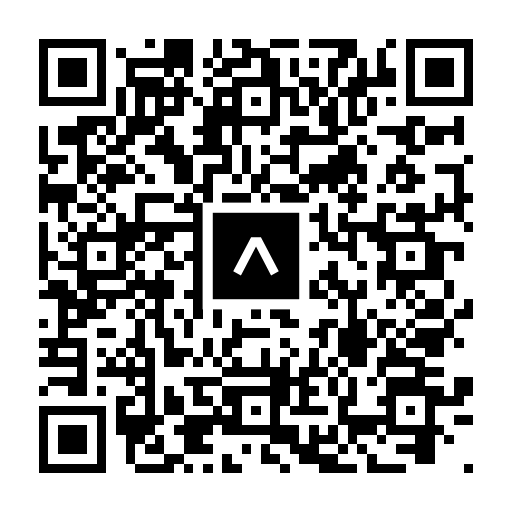
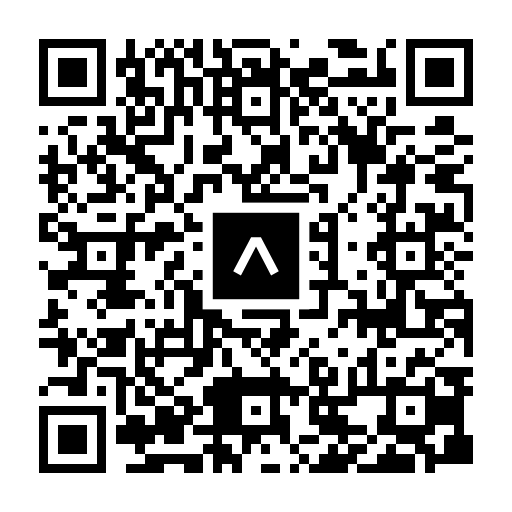
Updated QR codes

Changed region(s): [[0.0625, 0.0625, 0.9375, 0.9375]]

diff --git a/WebApp/src/Components/aws-exports.js b/WebApp/src/Components/aws-exports.js
@@ -2,48 +2,59 @@
 // WARNING: DO NOT EDIT. This file is automatically generated by AWS Amplify. It will be overwritten.
 
 const awsmobile = {
-    aws_project_region: process.env.REACT_APP_aws_project_region,
-    aws_mobile_analytics_app_id: process.env.REACT_APP_aws_mobile_analytics_app_id,
-    aws_mobile_analytics_app_region: process.env.REACT_APP_aws_mobile_analytics_app_region,
-    Analytics: {
-        AWSPinpoint: {
-            appId: process.env.REACT_APP_aws_mobile_analytics_app_id,
-            region: process.env.REACT_APP_aws_mobile_analytics_app_region,
-        },
+    "aws_project_region": "us-east-1",
+    "aws_mobile_analytics_app_id": "1b7cba24978247458ed95792275f66a5",
+    "aws_mobile_analytics_app_region": "us-east-1",
+    "Analytics": {
+        "AWSPinpoint": {
+            "appId": "1b7cba24978247458ed95792275f66a5",
+            "region": "us-east-1"
+        }
     },
-    aws_cloud_logic_custom: [
+    "aws_cloud_logic_custom": [
         {
-            name: "AdminQueries",
-            endpoint: process.env.REACT_APP_AWS_CLOUD_LOGIC_CUSTOM_0_endpoint,
-            region: process.env.REACT_APP_AWS_CLOUD_LOGIC_CUSTOM_0_region,
-        },
+            "name": "AdminQueries",
+            "endpoint": "https://l2dapg3i88.execute-api.us-east-1.amazonaws.com/dev",
+            "region": "us-east-1"
+        }
     ],
-    aws_appsync_graphqlEndpoint: process.env.REACT_APP_aws_appsync_graphqlEndpoint,
-    aws_appsync_region: process.env.REACT_APP_aws_appsync_region,
-    aws_appsync_authenticationType: process.env.REACT_APP_aws_appsync_authenticationType,
-    aws_appsync_apiKey: process.env.REACT_APP_aws_appsync_apiKey,
-    aws_cognito_identity_pool_id: process.env.REACT_APP_aws_cognito_identity_pool_id,
-    aws_cognito_region: process.env.REACT_APP_aws_cognito_region,
-    aws_user_pools_id: process.env.REACT_APP_aws_user_pools_id,
-    aws_user_pools_web_client_id: process.env.REACT_APP_aws_user_pools_web_client_id,
-    oauth: {},
-    aws_cognito_username_attributes: [process.env.REACT_APP_aws_cognito_verification_mechanisms_0],
-    aws_cognito_social_providers: [],
-    aws_cognito_signup_attributes: [process.env.REACT_APP_aws_cognito_verification_mechanisms_0, process.env.REACT_APP_FAMILY_NAME, process.env.REACT_APP_GIVEN_NAME],
-    aws_cognito_mfa_configuration: process.env.REACT_APP_aws_cognito_mfa_configuration,
-    aws_cognito_mfa_types: [process.env.REACT_APP_aws_cognito_mfa_types_0],
-    aws_cognito_password_protection_settings: {
-        passwordPolicyMinLength: process.env.REACT_APP_aws_cognito_password_protection_settings_passwordPolicyMinLength,
-        passwordPolicyCharacters: [
-            process.env.REACT_APP_aws_cognito_password_protection_settings_passwordPolicyCharacters_0,
-            process.env.REACT_APP_aws_cognito_password_protection_settings_passwordPolicyCharacters_1,
-            process.env.REACT_APP_aws_cognito_password_protection_settings_passwordPolicyCharacters_2,
-            process.env.REACT_APP_aws_cognito_password_protection_settings_passwordPolicyCharacters_3,
-        ],
+    "aws_appsync_graphqlEndpoint": "https://67twqdqlarflpjyhslhunp4mpm.appsync-api.us-east-1.amazonaws.com/graphql",
+    "aws_appsync_region": "us-east-1",
+    "aws_appsync_authenticationType": "AMAZON_COGNITO_USER_POOLS",
+    "aws_appsync_apiKey": "da2-tdsshxahb5csnjxmo5tgg3a53e",
+    "aws_cognito_identity_pool_id": "us-east-1:181b1b9d-abf3-41b2-aaa5-18f88c7edb7e",
+    "aws_cognito_region": "us-east-1",
+    "aws_user_pools_id": "us-east-1_Fvu8d56QE",
+    "aws_user_pools_web_client_id": "2vvdp1r6jakh8u38kmbc1f8vvm",
+    "oauth": {},
+    "aws_cognito_username_attributes": [
+        "EMAIL"
+    ],
+    "aws_cognito_social_providers": [],
+    "aws_cognito_signup_attributes": [
+        "EMAIL",
+        "FAMILY_NAME",
+        "NAME"
+    ],
+    "aws_cognito_mfa_configuration": "OFF",
+    "aws_cognito_mfa_types": [
+        "SMS"
+    ],
+    "aws_cognito_password_protection_settings": {
+        "passwordPolicyMinLength": "8",
+        "passwordPolicyCharacters": [
+            "REQUIRES_LOWERCASE",
+            "REQUIRES_UPPERCASE",
+            "REQUIRES_NUMBERS",
+            "REQUIRES_SYMBOLS"
+        ]
     },
-    aws_cognito_verification_mechanisms: [process.env.REACT_APP_aws_cognito_verification_mechanisms_0],
-    aws_user_files_s3_bucket: process.env.REACT_APP_aws_user_files_s3_bucket,
-    aws_user_files_s3_bucket_region: process.env.REACT_APP_aws_user_files_s3_bucket_region,
+    "aws_cognito_verification_mechanisms": [
+        "EMAIL"
+    ],
+    "aws_user_files_s3_bucket": "pronto-bucket133828-dev",
+    "aws_user_files_s3_bucket_region": "us-east-1"
 };
+
 
 export default awsmobile;
